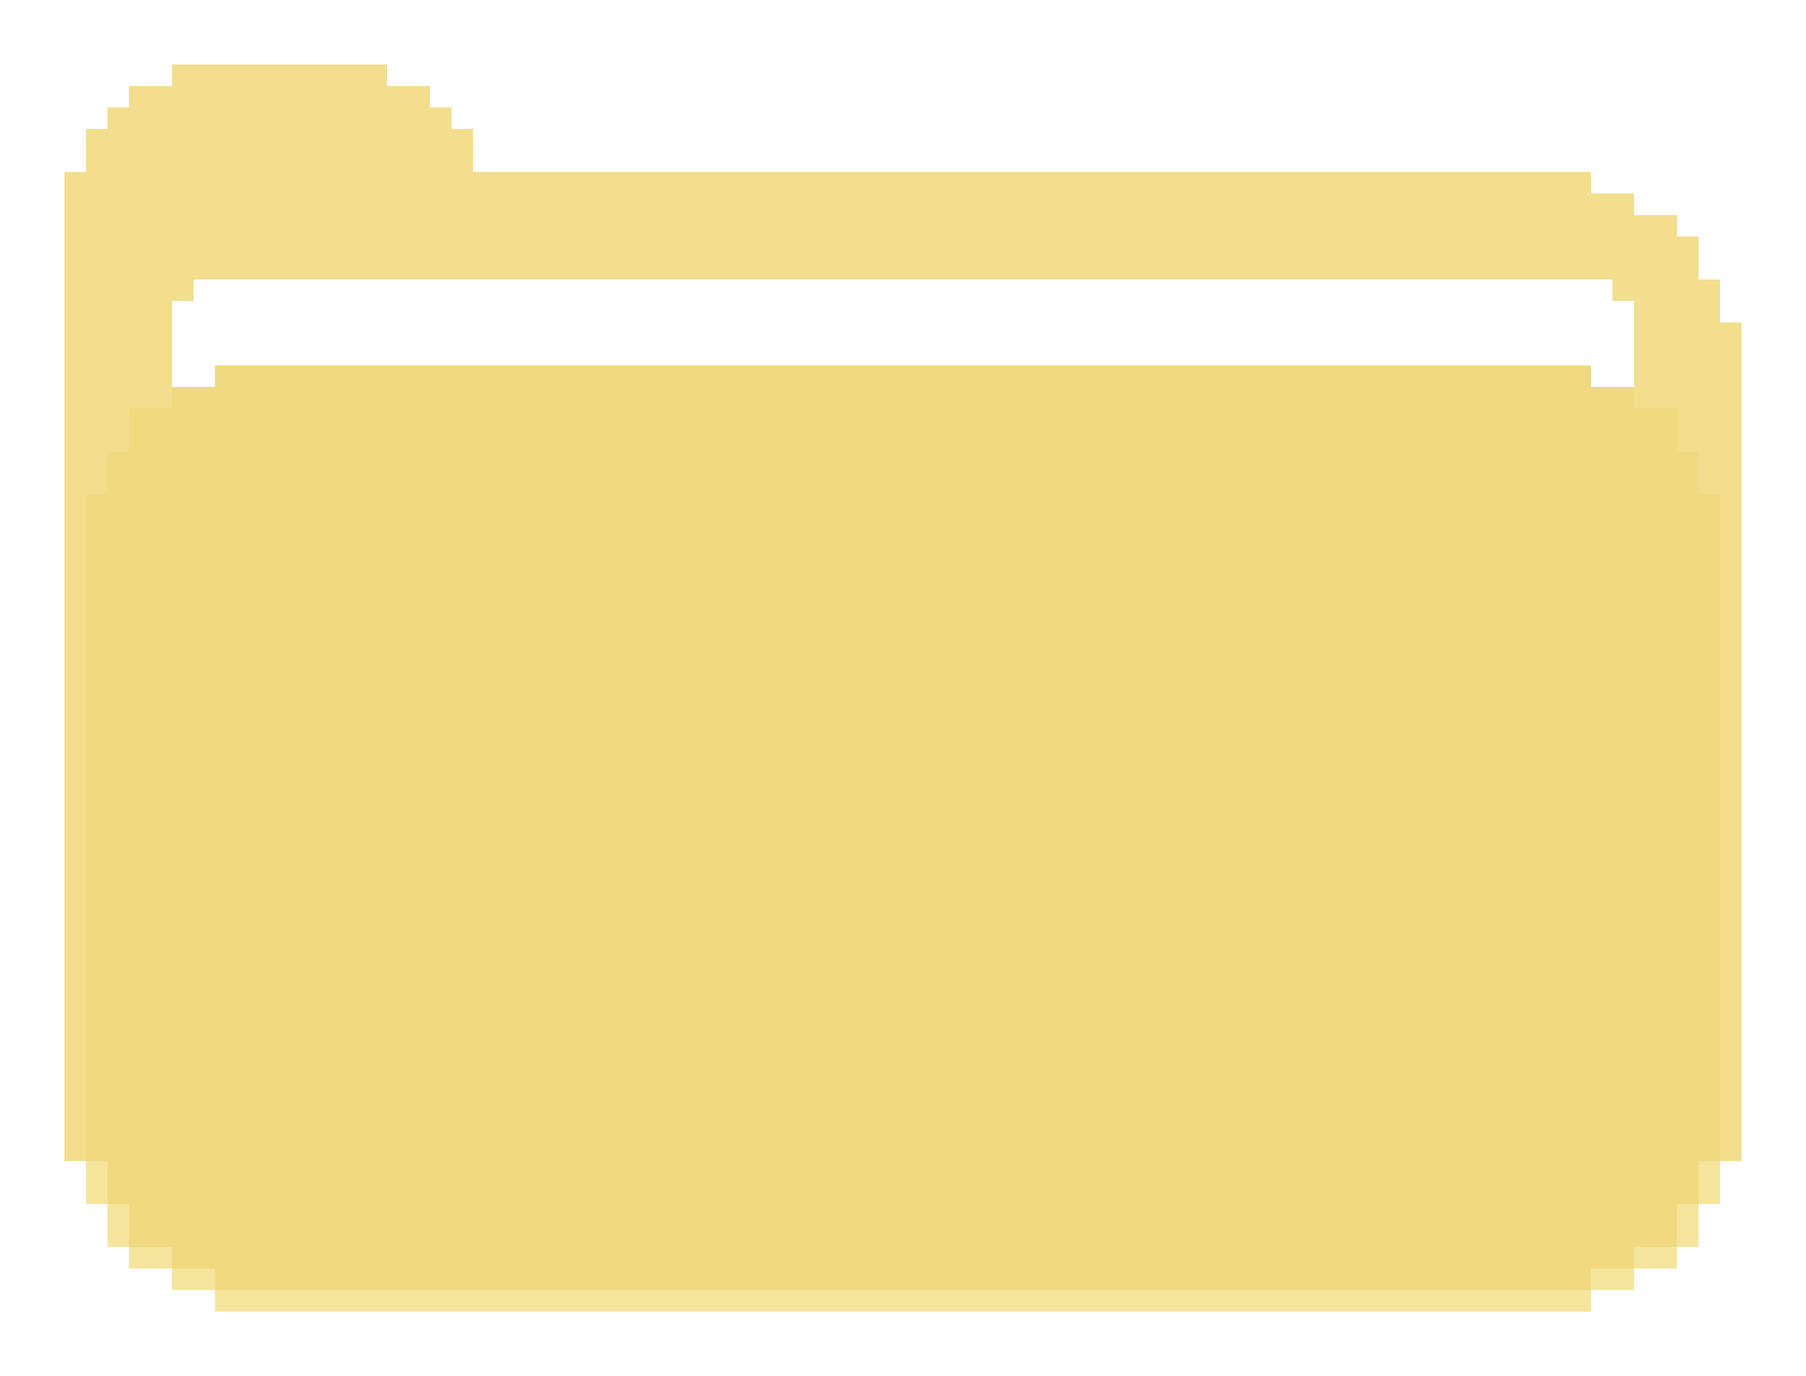
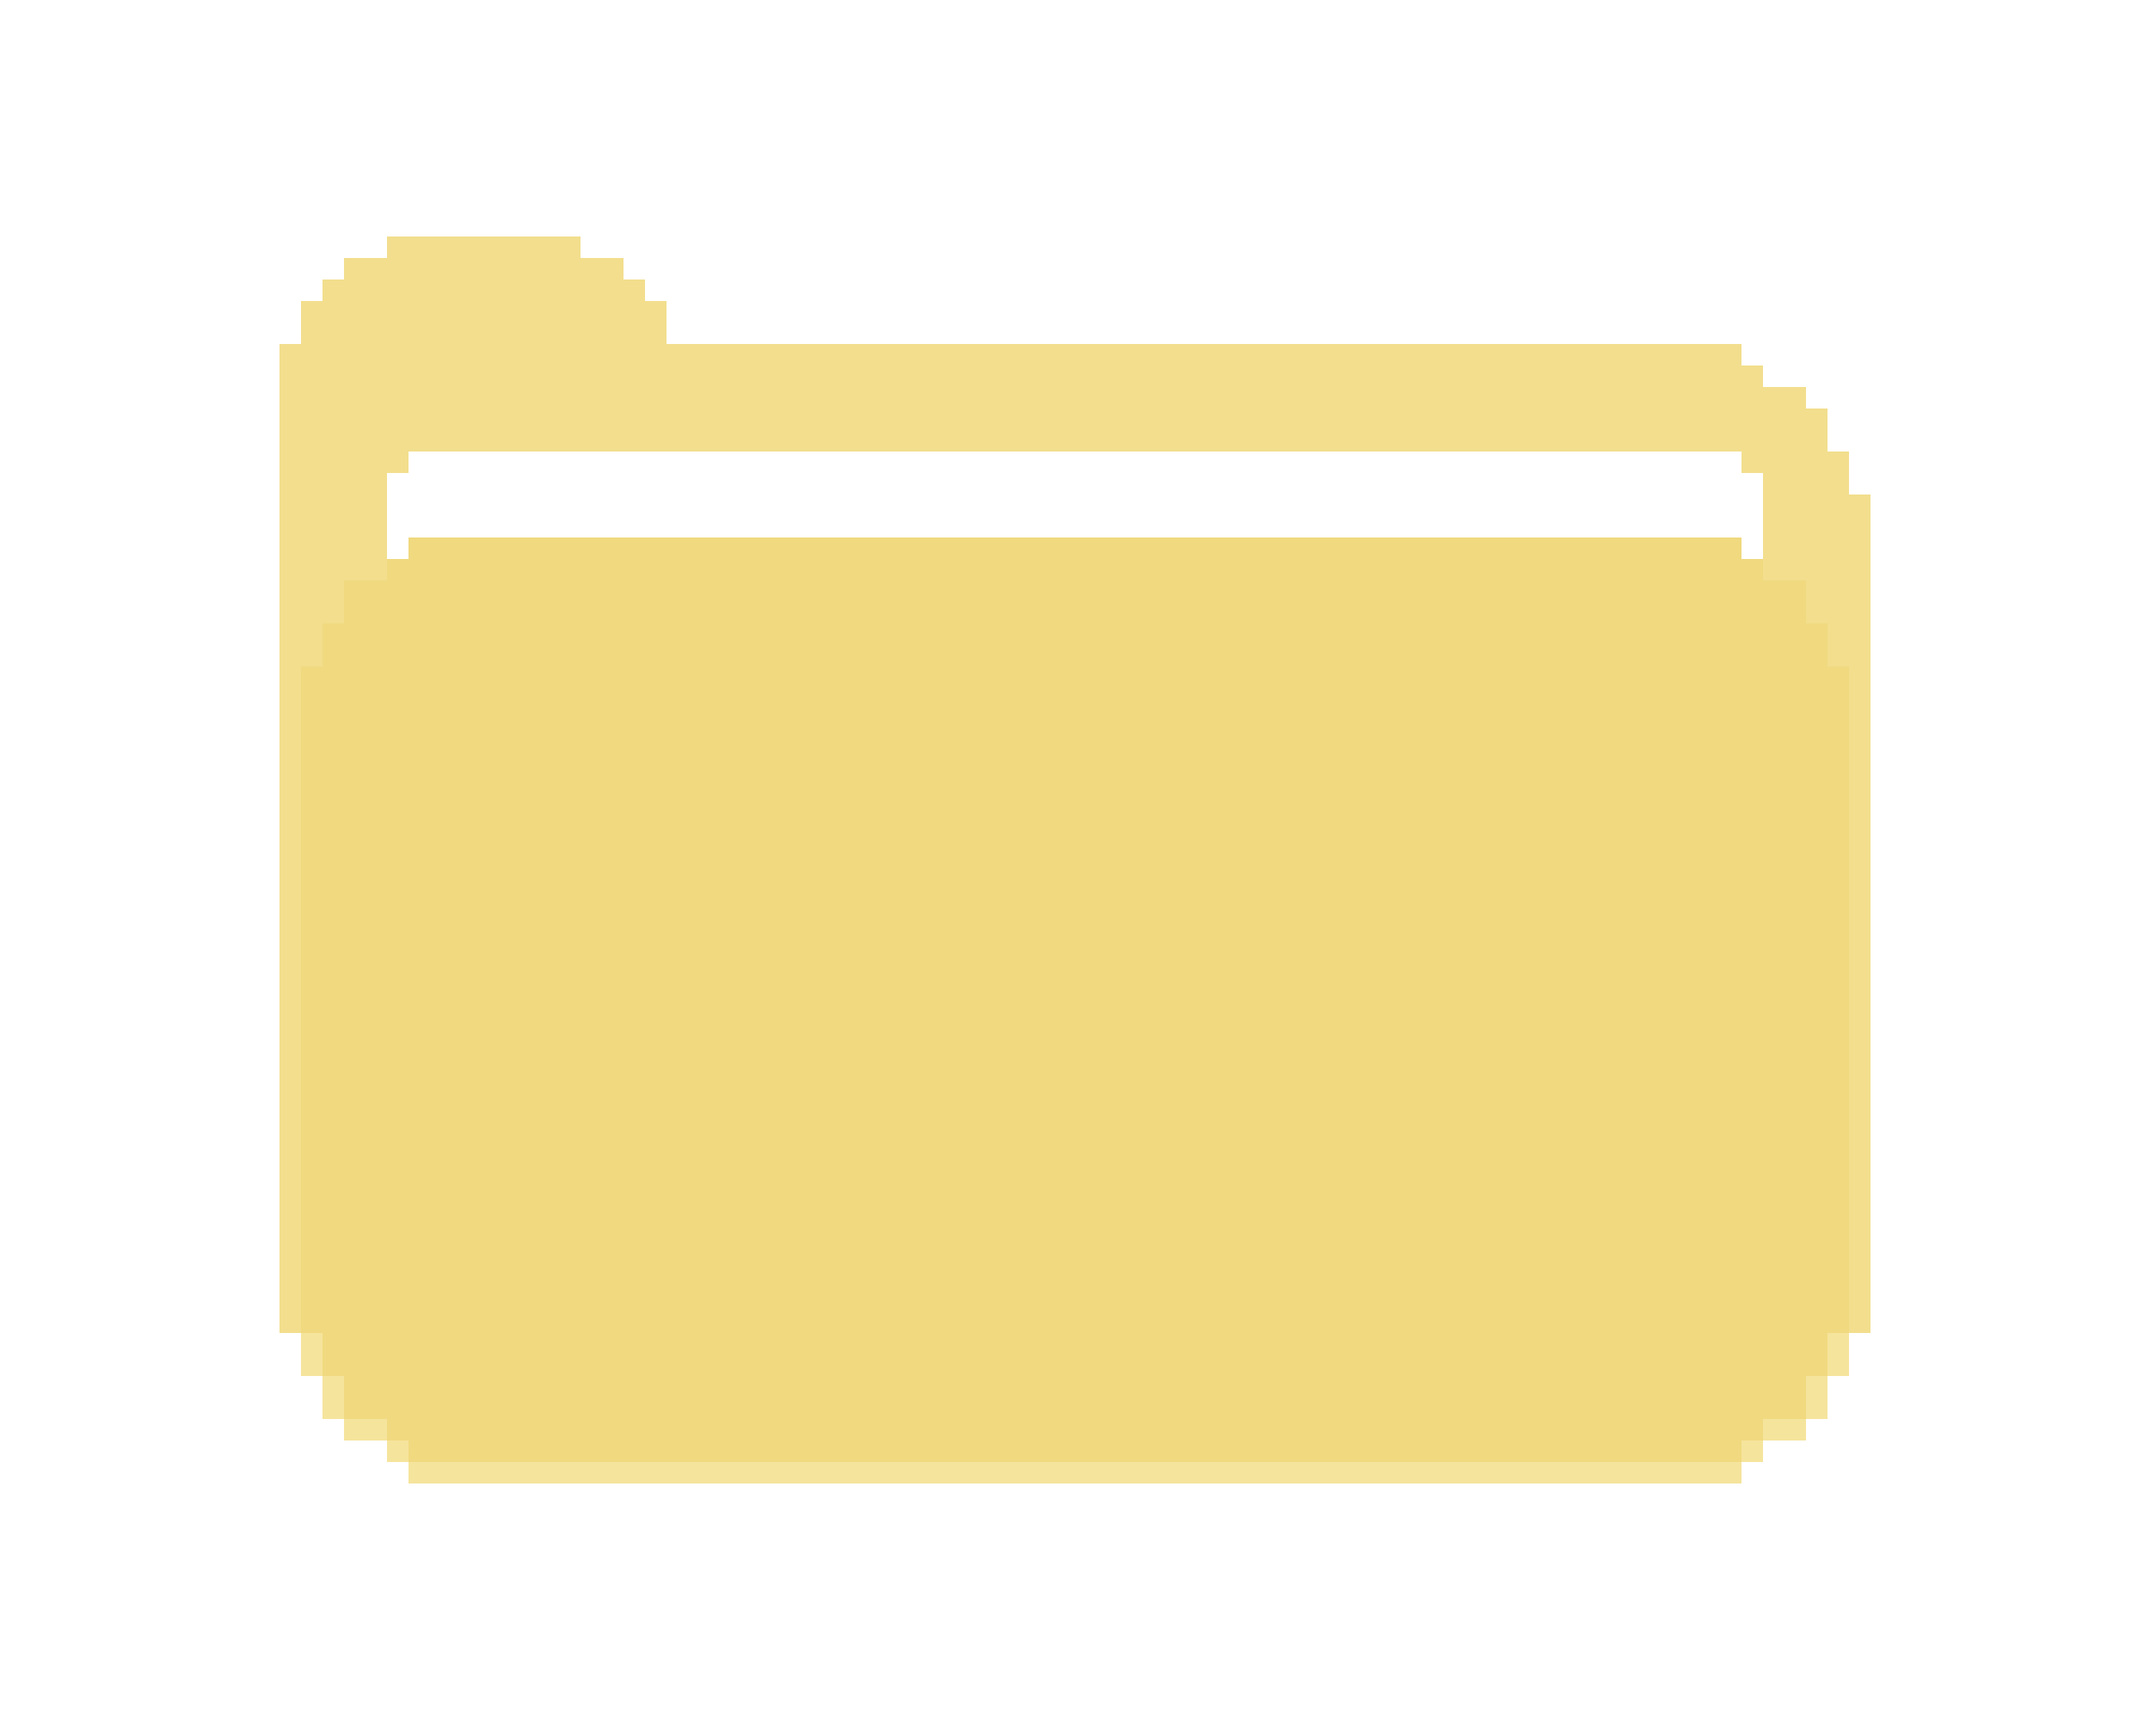
change

diff --git a/index.html b/index.html
@@ -86,9 +86,9 @@
           margin: 8px;
         ">
         <img
-          src="https://github.com/katetriestocode/kateOS/blob/main/notes.png?raw=true"
-          style="width: 96px; height: 96px; border-radius: 10px" />
-        <p style="margin: 0px; color: #fff">Notes</p>
+          src="https://github.com/katetriestocode/kateOS/blob/main/folder.png?raw=true"
+          style="width: 86px; height: auto; border-radius: 10px" />
+        <p style="margin: 0px; color: #fff">files</p>
       </div>
       <div
         id="photoIcon"
